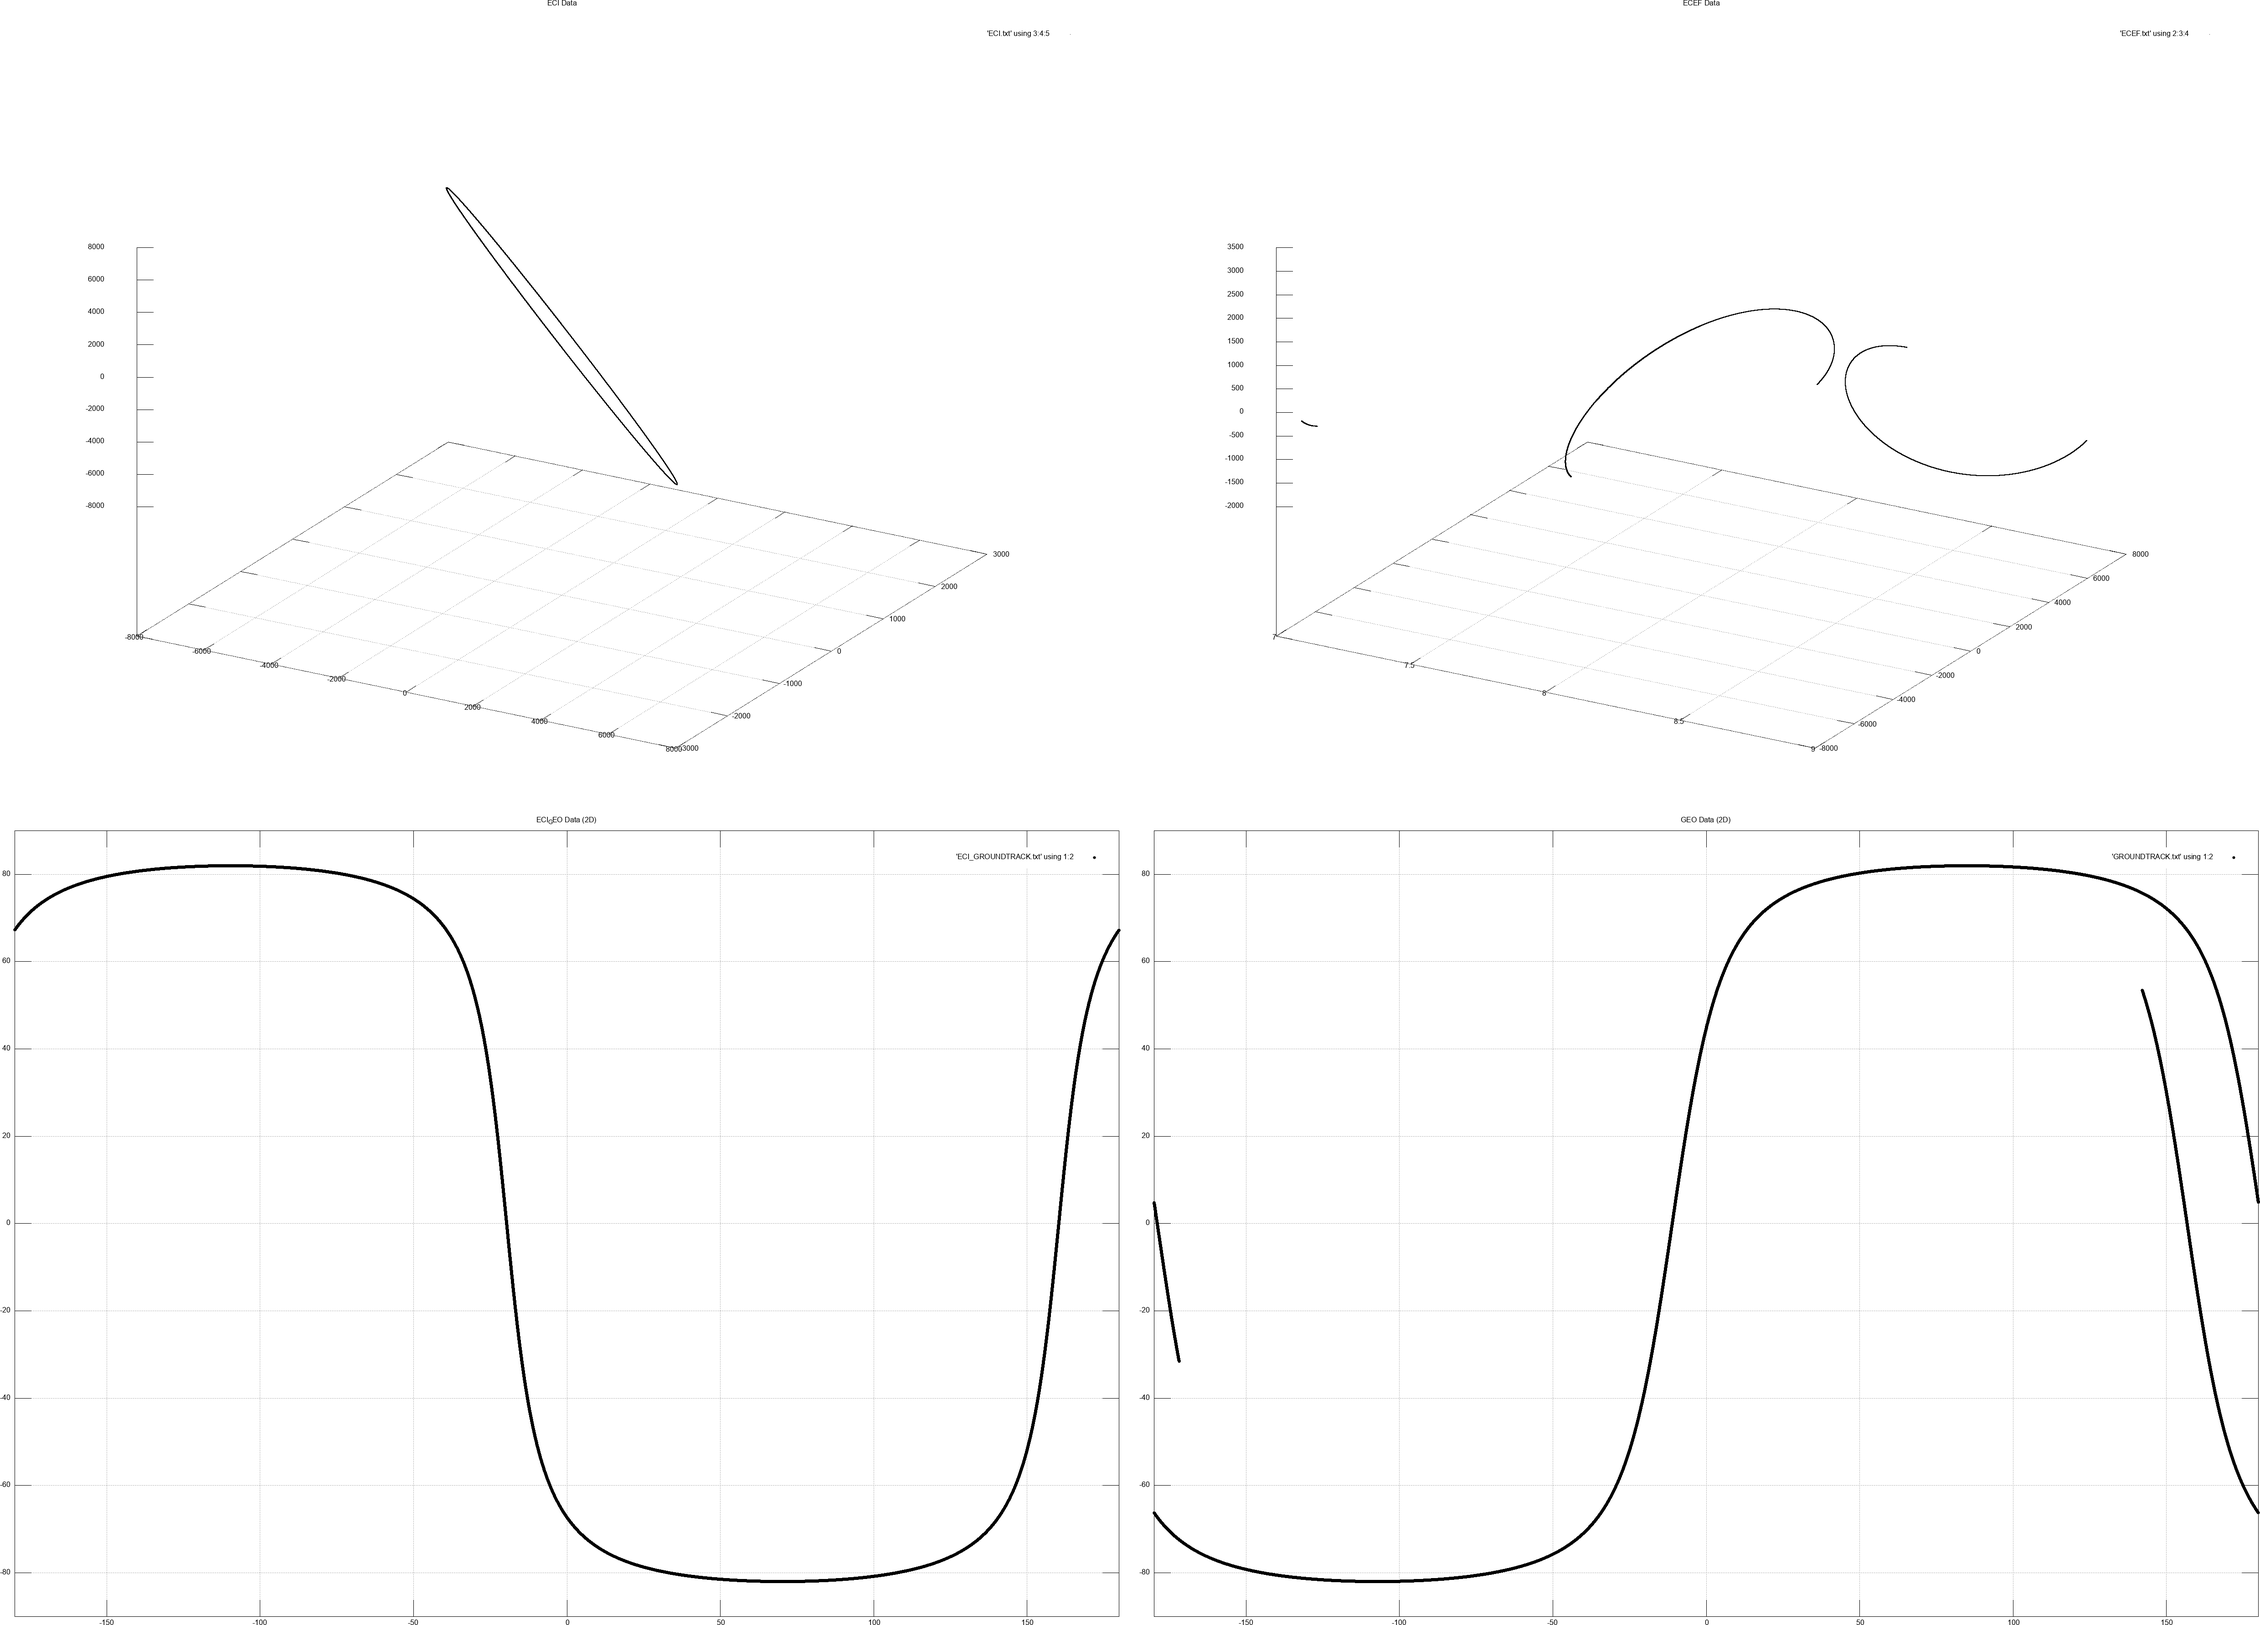
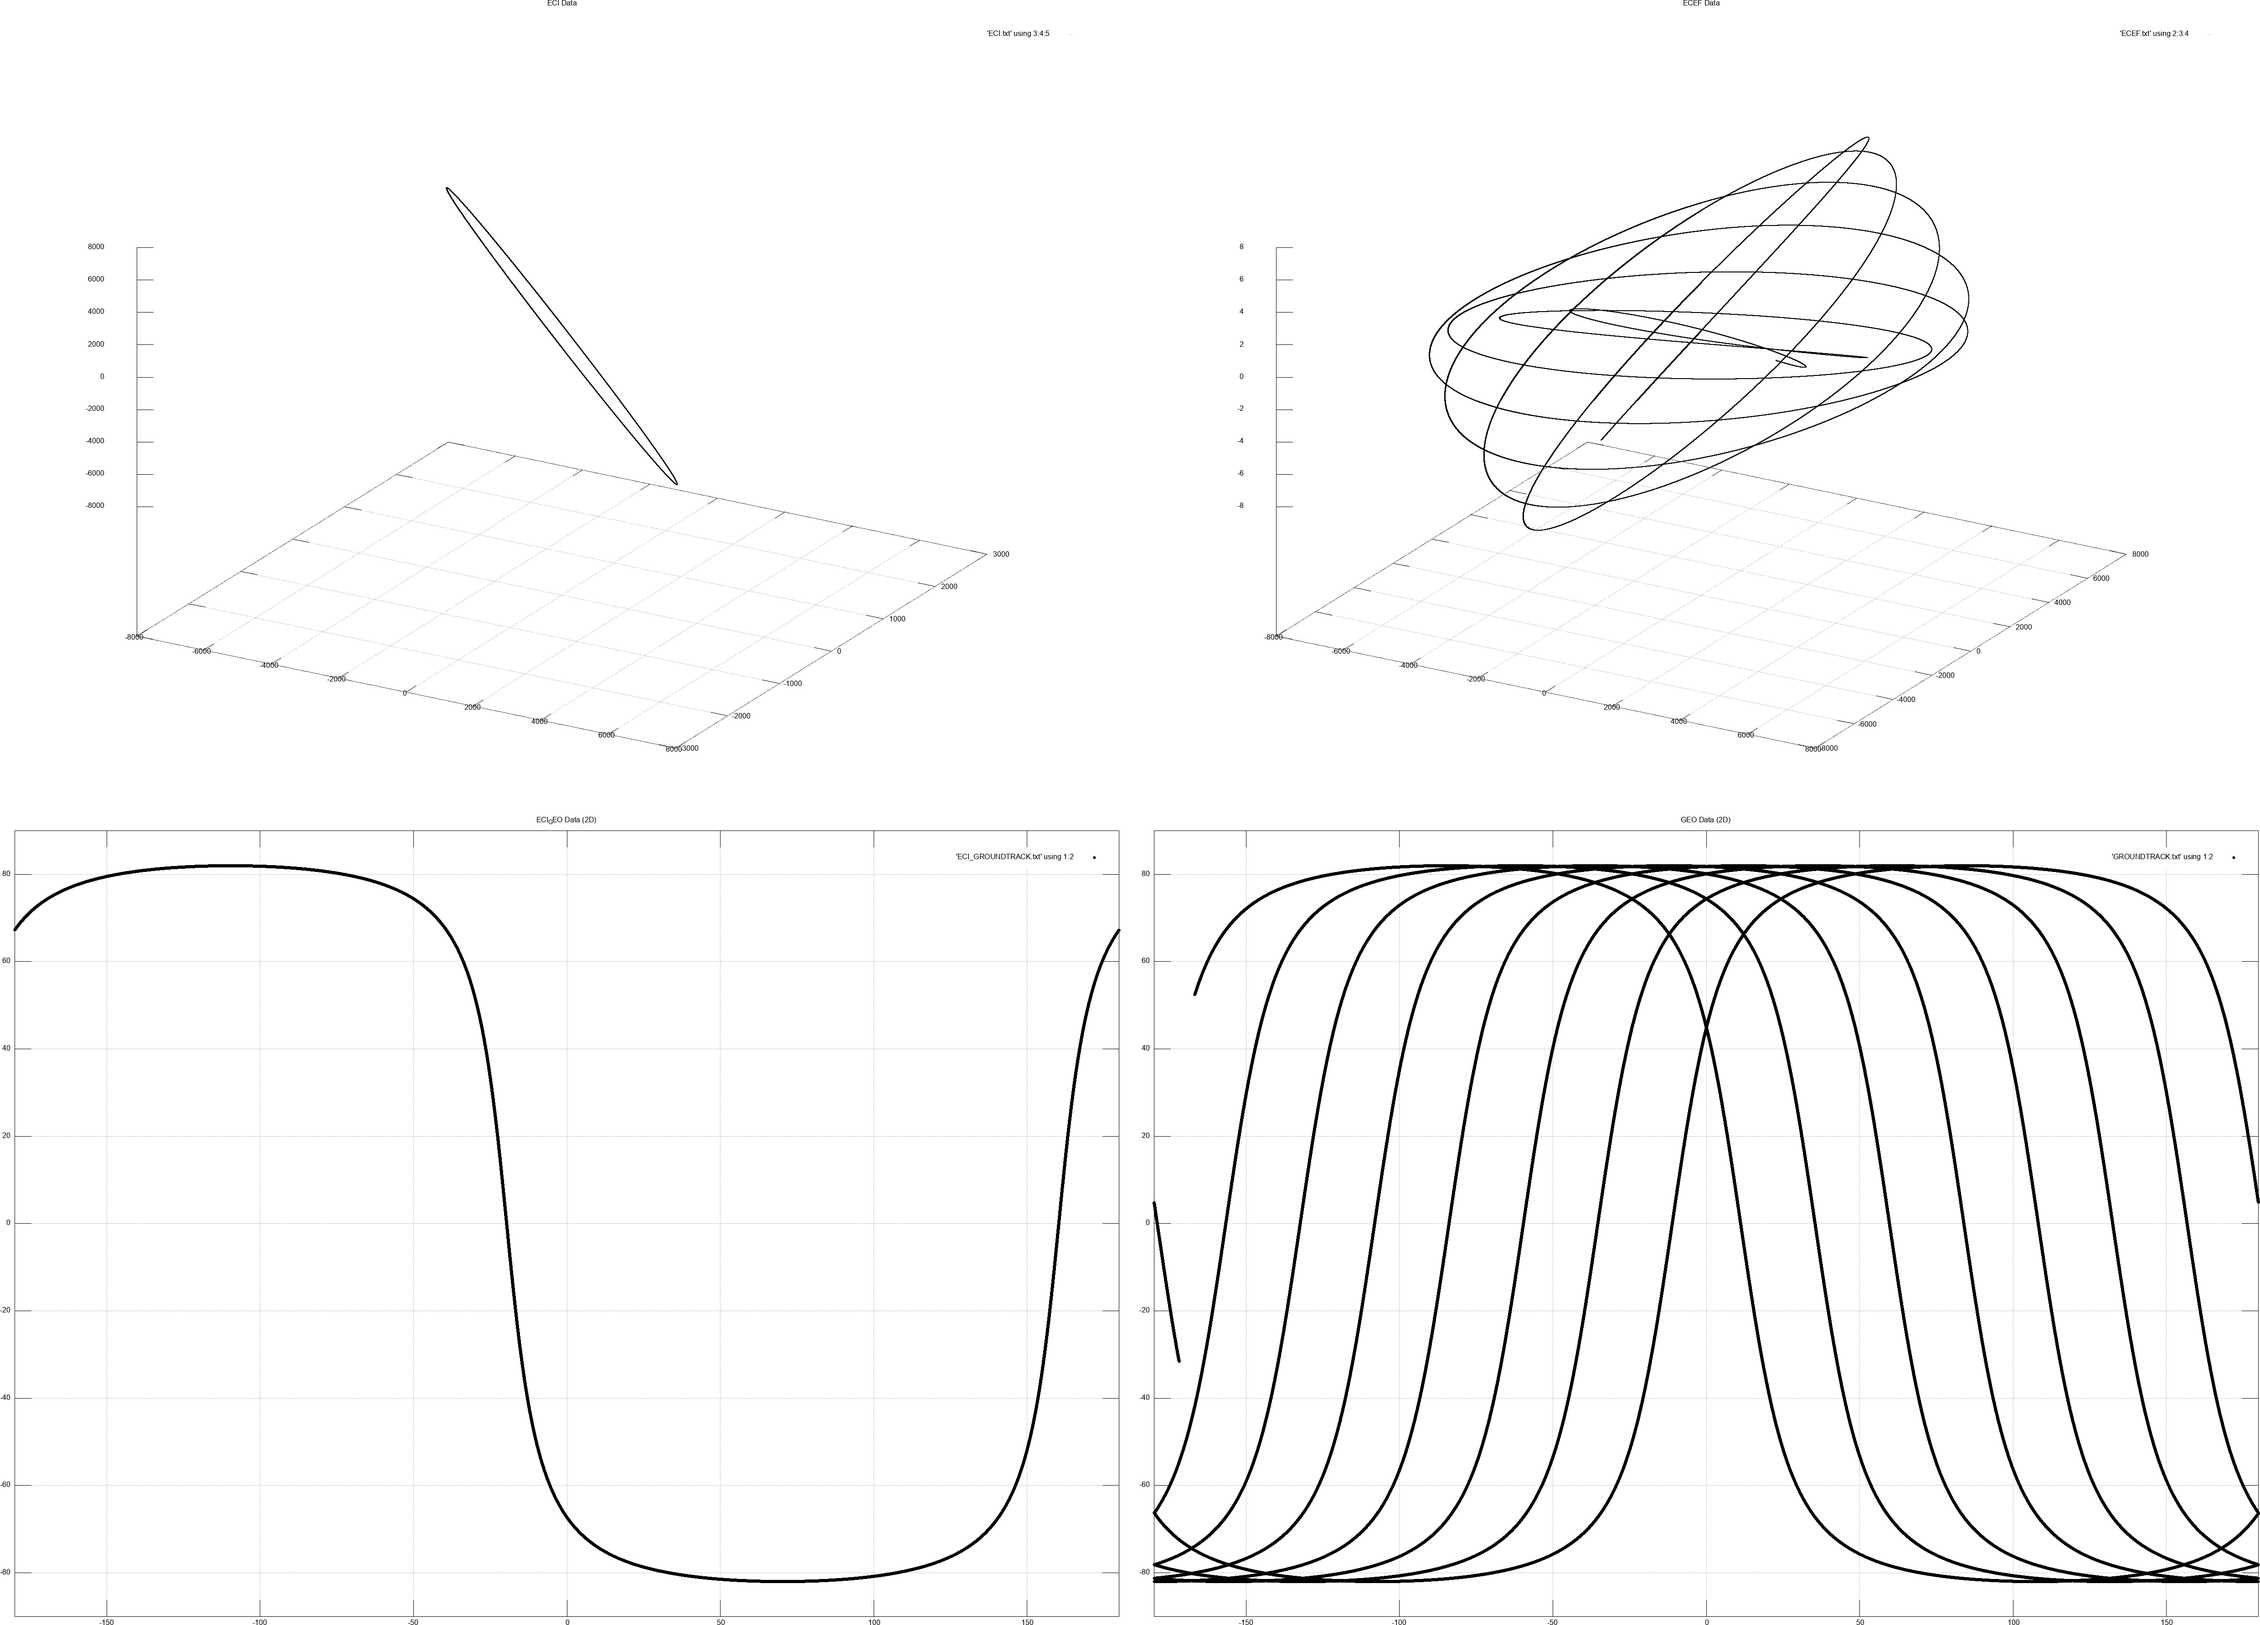
replace element->ECI with STK inital ECI

diff --git a/src/Orbit/Orbit.cpp b/src/Orbit/Orbit.cpp
@@ -104,6 +104,9 @@ void Orbit::SetParameter(const double &arg_SMA, const double &arg_e,
 
     // ECI_r << 5748.272127, -1506.348412, -3674.401874;
     // ECI_v << 3.472888, -2.183142, 6.339326;
+
+    state << 5748.272127, -1506.348412, -3674.401874, 
+             3.472888, -2.183142, 6.339326;
     
 
     // Print the resulting vectors r_ECI and v_ECI
@@ -211,7 +214,7 @@ void Orbit::RungeKutta45(const double& dt, const double& T, Vector6d& x) {
         // Transform ECI to ECEF and output to file 
         Vector6d ECEF;  
         ECEF = Coordinate::ECI2ECEF(x, current_time);
-        vOut_ECEF << date << " " << ECEF.transpose() << std::endl;      
+        vOut_ECEF << ECEF.transpose() << std::endl;      
 
         // Transform ECEF to GEO and output to file
         Vector2d GEO1; 

diff --git a/src/main.cpp b/src/main.cpp
@@ -76,10 +76,10 @@ int main(int argc, char *argv[]) {
 
     Orbit orbit_prop;
 
+
     orbit_prop.SetParameter(data.SMA, data.e, data.i, data.M, data.w, data.RAAN, data.Start_Date, data.End_Date);
 
     orbit_prop.Propagate();
 
     // orbit_prop.~Orbit();
 }
- 
